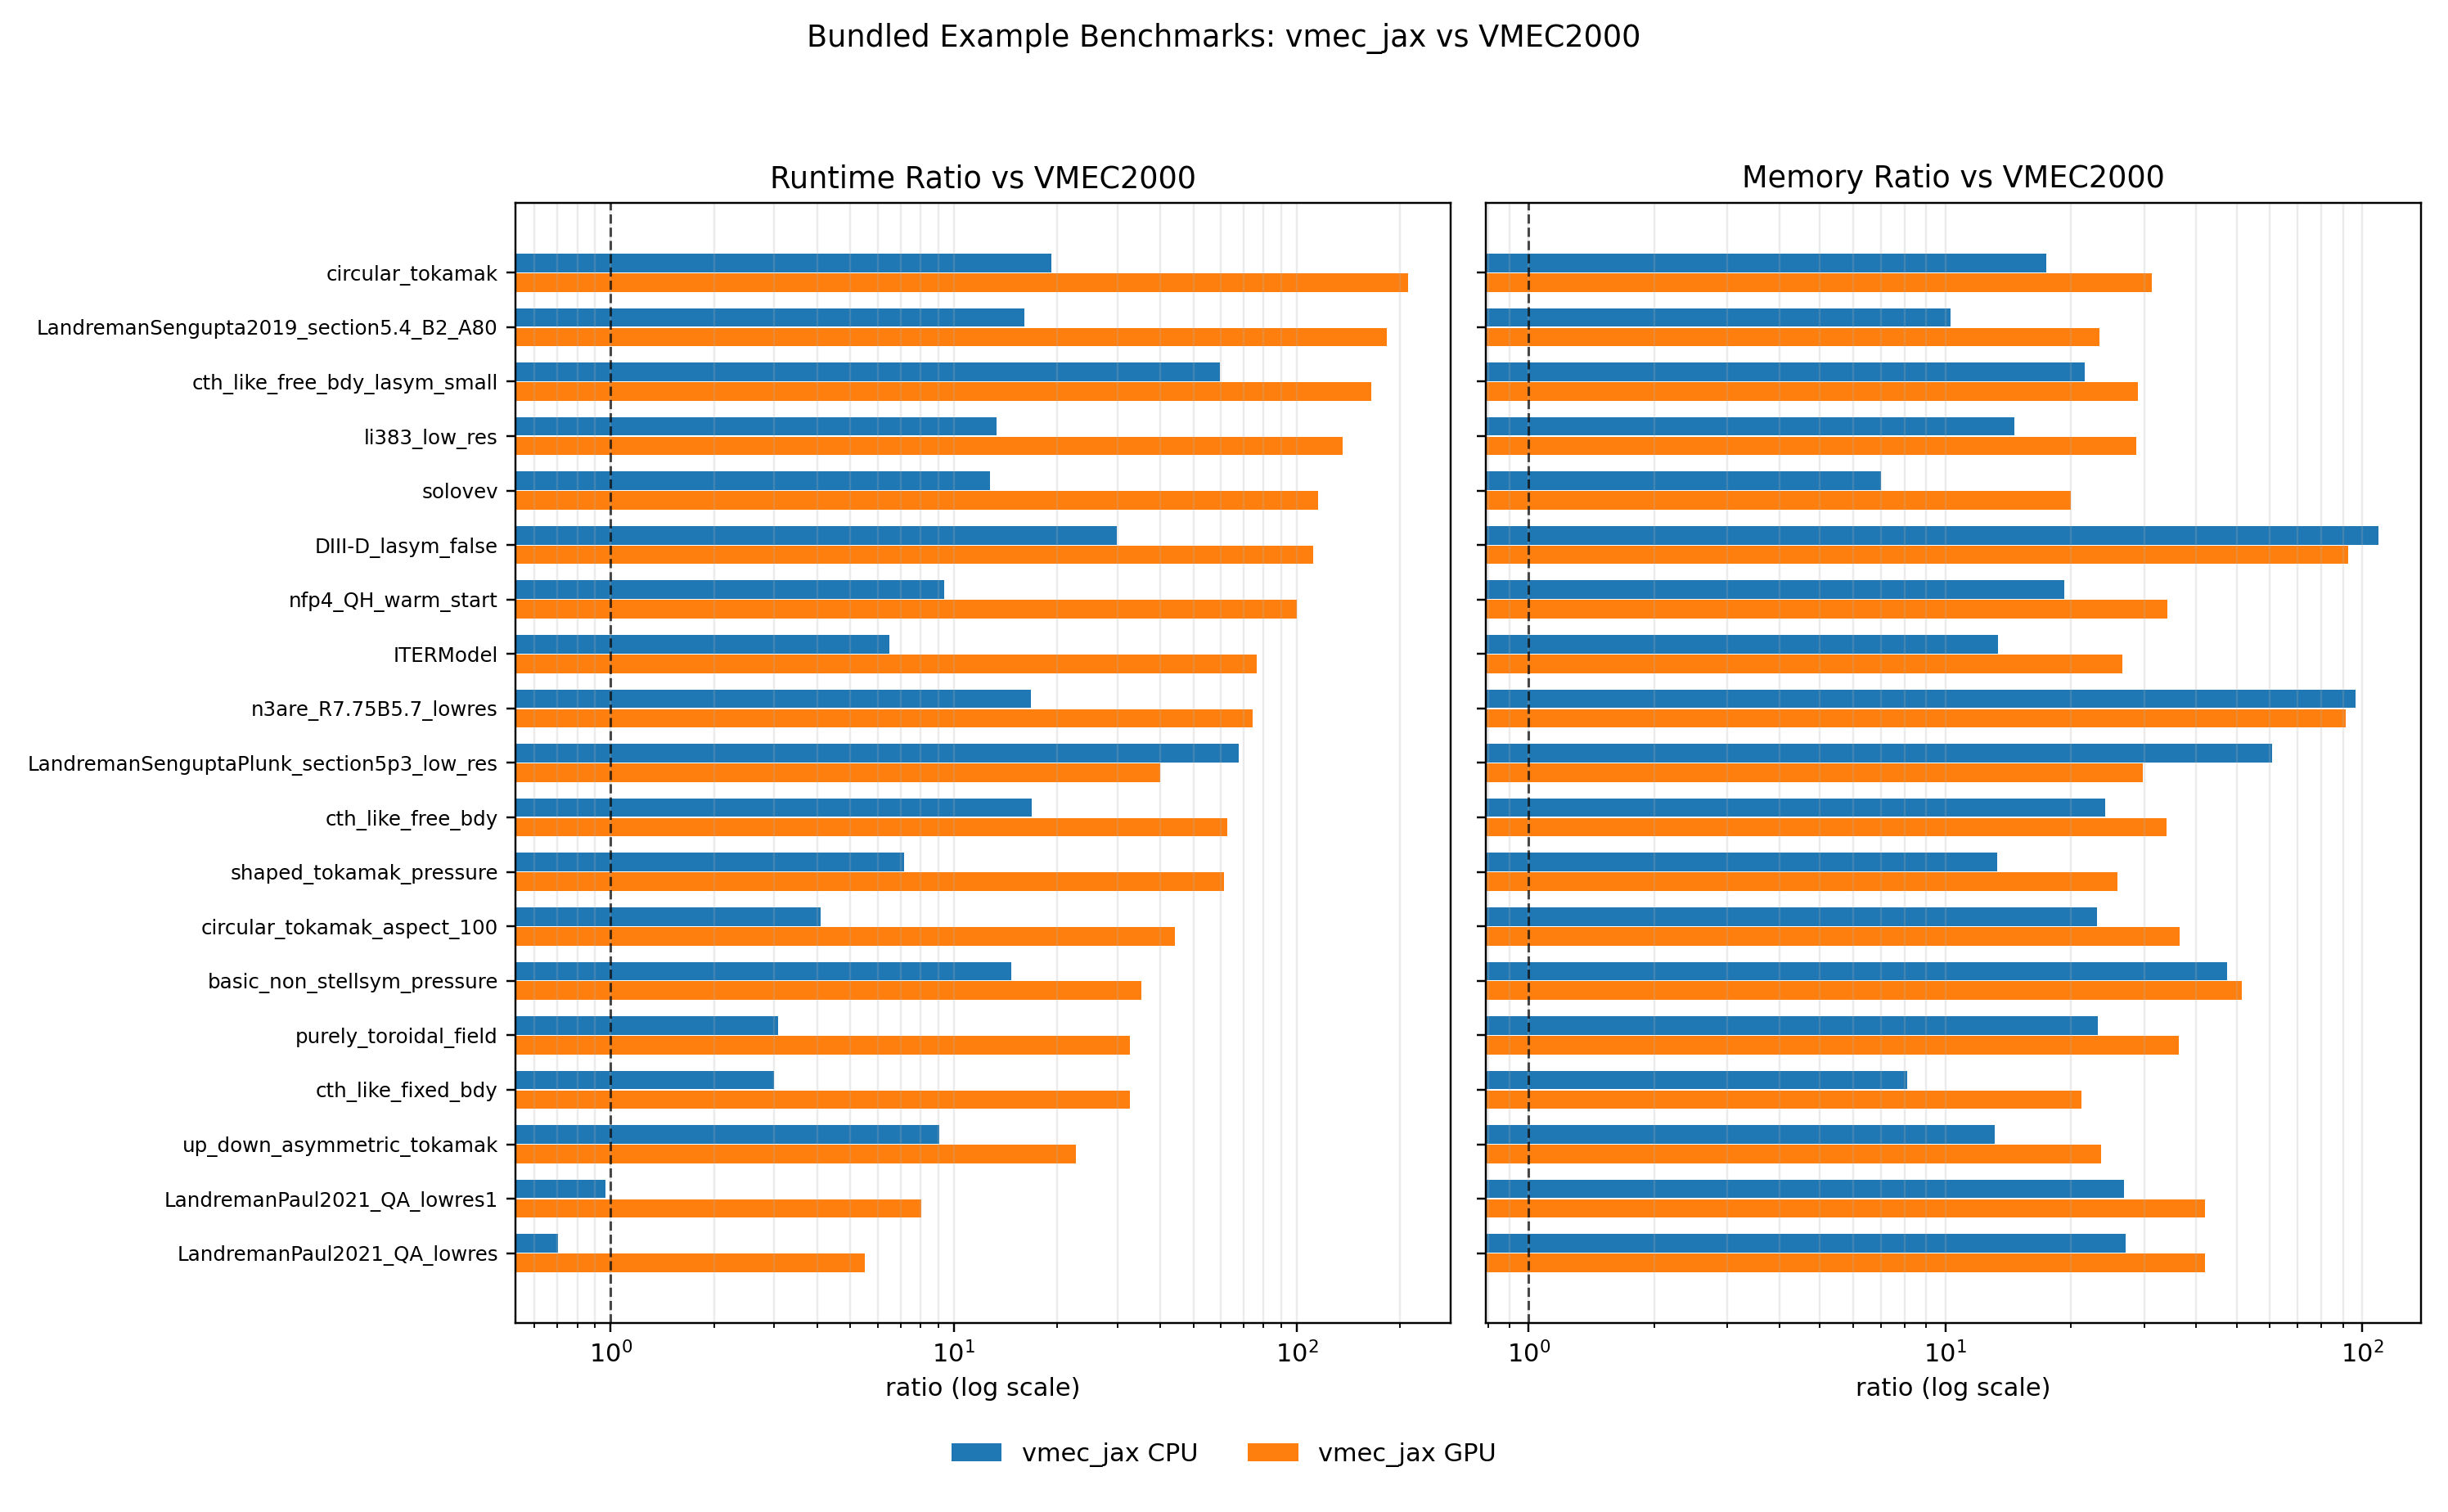
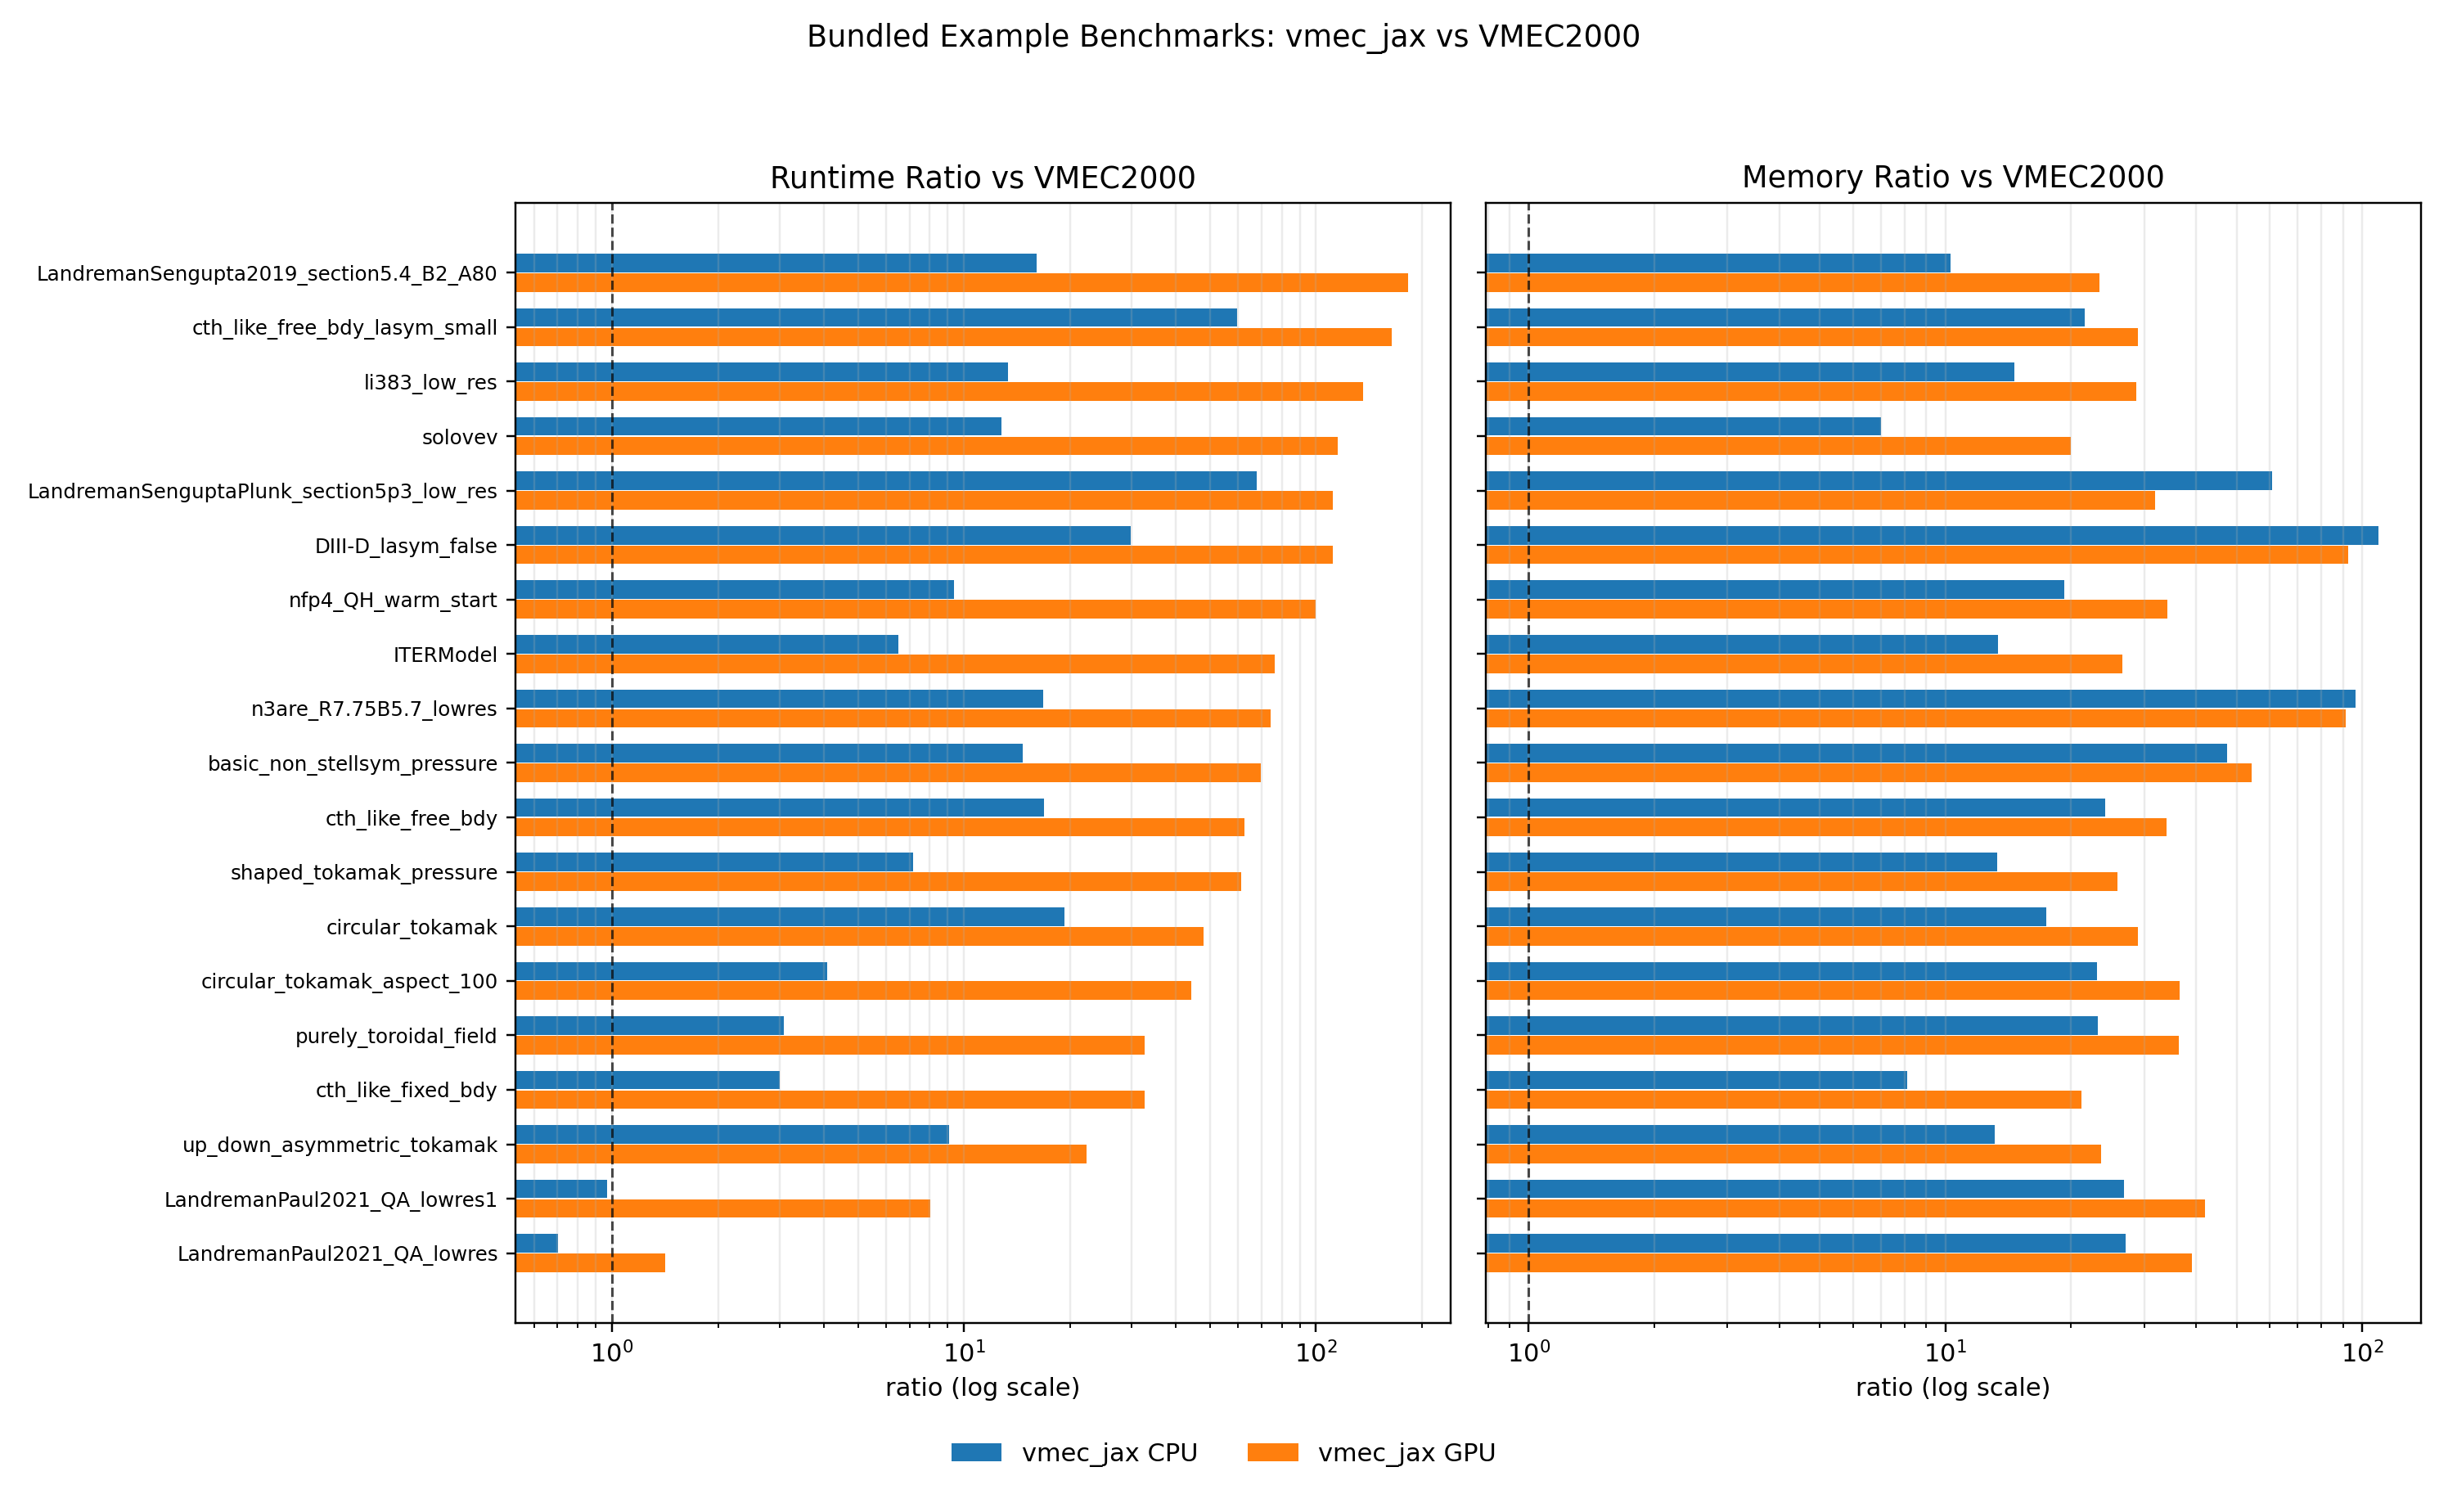
solve: reduce quiet GPU scan chunk overhead

diff --git a/tests/test_solve_scan_chunking.py b/tests/test_solve_scan_chunking.py
@@ -1,0 +1,63 @@
+from __future__ import annotations
+
+import vmec_jax.solve as solve_module
+
+
+def test_scan_chunk_settings_cpu_default(monkeypatch):
+    monkeypatch.setattr(solve_module, "_scan_backend_name", lambda: "cpu")
+    monkeypatch.delenv("VMEC_JAX_SCAN_CHUNK_SIZE", raising=False)
+
+    chunk_size, cap_to_remaining = solve_module._scan_chunk_settings(
+        max_iter_scan=783,
+        nstep_screen=200,
+        need_print=False,
+        lthreed=False,
+    )
+
+    assert chunk_size == 200
+    assert cap_to_remaining is False
+
+
+def test_scan_chunk_settings_accelerator_default(monkeypatch):
+    monkeypatch.setattr(solve_module, "_scan_backend_name", lambda: "gpu")
+    monkeypatch.delenv("VMEC_JAX_SCAN_CHUNK_SIZE", raising=False)
+
+    chunk_size, cap_to_remaining = solve_module._scan_chunk_settings(
+        max_iter_scan=783,
+        nstep_screen=200,
+        need_print=False,
+        lthreed=False,
+    )
+
+    assert chunk_size == 783
+    assert cap_to_remaining is True
+
+
+def test_scan_chunk_settings_accelerator_3d_default(monkeypatch):
+    monkeypatch.setattr(solve_module, "_scan_backend_name", lambda: "gpu")
+    monkeypatch.delenv("VMEC_JAX_SCAN_CHUNK_SIZE", raising=False)
+
+    chunk_size, cap_to_remaining = solve_module._scan_chunk_settings(
+        max_iter_scan=5000,
+        nstep_screen=200,
+        need_print=False,
+        lthreed=True,
+    )
+
+    assert chunk_size == 400
+    assert cap_to_remaining is True
+
+
+def test_scan_chunk_settings_respects_override(monkeypatch):
+    monkeypatch.setattr(solve_module, "_scan_backend_name", lambda: "gpu")
+    monkeypatch.setenv("VMEC_JAX_SCAN_CHUNK_SIZE", "1000")
+
+    chunk_size, cap_to_remaining = solve_module._scan_chunk_settings(
+        max_iter_scan=3,
+        nstep_screen=200,
+        need_print=False,
+        lthreed=True,
+    )
+
+    assert chunk_size == 1000
+    assert cap_to_remaining is True

diff --git a/vmec_jax/solve.py b/vmec_jax/solve.py
@@ -45,6 +45,40 @@ def _hash_array_bytes(a: Any) -> str:
     return h.hexdigest()
 
 
+def _scan_backend_name() -> str:
+    if not has_jax() or jax is None:
+        return "cpu"
+    try:
+        return str(jax.default_backend()).strip().lower() or "cpu"
+    except Exception:
+        return "cpu"
+
+
+def _scan_chunk_settings(
+    *,
+    max_iter_scan: int,
+    nstep_screen: int,
+    need_print: bool,
+    lthreed: bool,
+) -> tuple[int, bool]:
+    chunk_size_env = os.getenv("VMEC_JAX_SCAN_CHUNK_SIZE", "").strip()
+    backend = _scan_backend_name()
+    if chunk_size_env:
+        try:
+            chunk_size = max(1, int(chunk_size_env))
+        except Exception:
+            chunk_size = max(1, int(nstep_screen))
+    elif (backend != "cpu") and (not bool(need_print)):
+        # Quiet accelerator runs benefit from much larger chunks because the
+        # host chunk loop otherwise pays repeated device sync/launch overhead.
+        accel_chunk_target = 400 if bool(lthreed) else 1000
+        chunk_size = max(1, max(int(nstep_screen), min(int(max_iter_scan), int(accel_chunk_target))))
+    else:
+        chunk_size = max(1, int(nstep_screen))
+    cap_to_remaining = (backend != "cpu") and (not bool(need_print))
+    return chunk_size, cap_to_remaining
+
+
 @dataclass(frozen=True)
 class SolveLambdaResult:
     state: VMECState
@@ -7750,14 +7784,12 @@ def solve_fixed_boundary_residual_iter(
             fsq_min_global_j = jnp.asarray(jnp.inf, dtype=dtype)
             early_fallback = bool(scan_fallback_enabled) and (int(cfg.ns) > int(scan_fallback_iters))
             need_print = bool(scan_collect_print)
-            chunk_size_env = os.getenv("VMEC_JAX_SCAN_CHUNK_SIZE", "").strip()
-            if chunk_size_env:
-                try:
-                    chunk_size = max(1, int(chunk_size_env))
-                except Exception:
-                    chunk_size = int(nstep_screen)
-            else:
-                chunk_size = int(nstep_screen)
+            chunk_size, chunk_cap_remaining = _scan_chunk_settings(
+                max_iter_scan=int(max_iter_scan),
+                nstep_screen=int(nstep_screen),
+                need_print=bool(need_print),
+                lthreed=bool(cfg.lthreed),
+            )
             if preflight_iters > 0:
                 if iter_offset_preflight is not None:
                     carry = carry._replace(iter_offset=jnp.asarray(iter_offset_preflight, dtype=jnp.int32))
@@ -7781,8 +7813,12 @@ def solve_fixed_boundary_residual_iter(
                     carry = carry._replace(iter_offset=jnp.asarray(iter_offset0, dtype=jnp.int32))
             while start_idx < int(max_iter_scan):
                 # Fixed-length chunk to avoid retracing for varying tail sizes.
-                # Extra iterations are masked by the in-scan hold condition.
-                chunk_len = int(chunk_size)
+                # On quiet accelerator runs, cap the chunk to the remaining work
+                # so short probe windows do not pay hundreds of masked no-op steps.
+                remaining = int(max_iter_scan) - int(start_idx)
+                if remaining <= 0:
+                    break
+                chunk_len = min(int(chunk_size), int(remaining)) if chunk_cap_remaining else int(chunk_size)
                 it_seq = jnp.arange(start_idx, start_idx + int(chunk_len), dtype=jnp.int32)
                 runner = _get_scan_runner(int(chunk_len))
                 carry, hist_chunk = runner(carry, it_seq)

diff --git a/docs/performance.rst b/docs/performance.rst
@@ -70,6 +70,14 @@ Controls:
 - ``VMEC_JAX_DYNAMIC_SCAN_ITERS=<int>``: override the probe window
   (defaults to ``10`` on CPU, ``3`` on accelerators).
 
+For quiet accelerator scans, ``vmec-jax`` also increases the default scan chunk
+target and caps each chunk to the remaining iteration budget. This reduces
+host/device launch overhead without changing the in-scan hold semantics.
+
+Controls:
+
+- ``VMEC_JAX_SCAN_CHUNK_SIZE=<int>``: override the chunk target explicitly.
+
 Debug dump env vars are incompatible with scan mode.
 
 If you want an automatic parity probe when using scan, set::
@@ -248,20 +256,27 @@ Recent artifacts from this tool:
 
 Current snapshot highlights:
 
-- Fixed-boundary ``lasym=True`` improved materially after the automatic
-  performance-mode axis inference + accelerator-aware scan probe:
+- Fixed-boundary scan performance on the reference GPU host improved materially
+  after the accelerator-aware scan probe and quiet-scan chunking changes:
 
-  - ``input.up_down_asymmetric_tokamak`` now runs in about ``6.7s`` /
-    ``0.89 GiB`` on the reference CPU host versus VMEC2000 about ``0.74s``.
-  - ``input.basic_non_stellsym_pressure`` runs in about ``29.7s`` /
-    ``3.22 GiB`` on the reference CPU host versus VMEC2000 about ``2.02s``.
-  - ``input.LandremanSenguptaPlunk_section5p3_low_res`` remains a heavy
-    fallback case at about ``46.8s`` / ``4.07 GiB`` versus VMEC2000
-    about ``0.69s``.
-  - On the reference GPU host, the same selector change cut bundled cold-start
-    runtimes to about ``16.9s`` for ``input.up_down_asymmetric_tokamak``,
-    ``71.4s`` for ``input.basic_non_stellsym_pressure``, and ``27.5s`` for
-    ``input.LandremanSenguptaPlunk_section5p3_low_res``.
+  - ``input.circular_tokamak`` now runs in about ``13.8s`` / ``1.97 GiB``.
+  - ``input.LandremanPaul2021_QA_lowres`` now runs in about ``33.9s`` /
+    ``2.66 GiB``.
+  - ``input.up_down_asymmetric_tokamak`` now runs in about ``16.5s`` /
+    ``1.60 GiB``.
+  - ``input.basic_non_stellsym_pressure`` now runs in about ``141.1s`` /
+    ``3.68 GiB``.
+  - ``input.LandremanSenguptaPlunk_section5p3_low_res`` now runs in about
+    ``77.1s`` / ``2.13 GiB``.
+
+- Fixed-boundary ``lasym=True`` on the reference CPU host remains:
+
+  - ``input.up_down_asymmetric_tokamak`` about ``6.7s`` / ``0.89 GiB`` versus
+    VMEC2000 about ``0.74s``.
+  - ``input.basic_non_stellsym_pressure`` about ``29.7s`` / ``3.22 GiB``
+    versus VMEC2000 about ``2.02s``.
+  - ``input.LandremanSenguptaPlunk_section5p3_low_res`` about ``46.8s`` /
+    ``4.07 GiB`` versus VMEC2000 about ``0.69s``.
 
 - Bundled free-boundary cases remain the dominant default-path outliers:
 

diff --git a/plan.md b/plan.md
@@ -760,3 +760,15 @@ Legend:
     (`input.up_down_asymmetric_tokamak`), `71.4s`
     (`input.basic_non_stellsym_pressure`), and `27.5s`
     (`input.LandremanSenguptaPlunk_section5p3_low_res`) on the reference GPU host.
+- Reduced the quiet fixed-boundary GPU scan overhead further by using
+  backend-aware chunk targets and capping chunk lengths to the remaining work:
+  - axisymmetric quiet accelerator scans now default to larger chunks,
+  - 3D quiet accelerator scans now default to moderately larger chunks,
+  - short parity probes no longer burn through hundreds of masked no-op steps.
+- Updated cold-start GPU benchmark points after the chunking change:
+  - `input.circular_tokamak` about `13.8s` / `1.97 GiB`,
+  - `input.LandremanPaul2021_QA_lowres` about `33.9s` / `2.66 GiB`,
+  - `input.up_down_asymmetric_tokamak` about `16.5s` / `1.60 GiB`,
+  - `input.basic_non_stellsym_pressure` about `141.1s` / `3.68 GiB`,
+  - `input.LandremanSenguptaPlunk_section5p3_low_res` about `77.1s` / `2.13 GiB`
+    on the reference GPU host.

diff --git a/README.md b/README.md
@@ -95,6 +95,7 @@ python examples/optimization/implicit_target_iota_volume.py --case circular_toka
 
 - Default runs enable the scan-based fast loop (`performance_mode=True`) with a parity guard.
 - LASYM fixed-boundary stages now use a timed scan/non-scan probe on CPU and a short parity-only probe on accelerators, so the default GPU path keeps the scan fast path without paying the full non-scan timing cost.
+- Quiet accelerator scan runs now use backend-aware larger chunks, capped to the remaining iterations, to reduce host/device launch overhead without changing solver parity.
 - Use `--parity` or `performance_mode=False` to force the conservative parity path.
 - Details and profiling guidance live in `docs/performance.rst`.
 - Parity methodology and current status live in `docs/validation.rst`.
@@ -185,12 +186,12 @@ and a reference CUDA host (dual RTX A4000 GPUs). Exact results vary by machine.
 | --- | --- | --- | --- | ---: | ---: | ---: | ---: | ---: | ---: |
 | DIII-D_lasym_false | free | axisym | false | 14.37s | 0.07 GiB | 428.24s | 7.36 GiB | 1602.31s | 6.23 GiB |
 | ITERModel | fixed | axisym | false | 0.90s | 0.07 GiB | 5.83s | 0.91 GiB | 68.66s | 1.81 GiB |
-| LandremanPaul2021_QA_lowres | fixed | non-axisym | false | 23.89s | 0.07 GiB | 16.79s | 1.84 GiB | 131.89s | 2.85 GiB |
+| LandremanPaul2021_QA_lowres | fixed | non-axisym | false | 23.89s | 0.07 GiB | 16.79s | 1.84 GiB | 33.91s | 2.66 GiB |
 | LandremanPaul2021_QA_lowres1 | fixed | non-axisym | false | 15.37s | 0.07 GiB | 14.86s | 1.82 GiB | 123.45s | 2.84 GiB |
 | LandremanSengupta2019_section5.4_B2_A80 | fixed | axisym | false | 0.24s | 0.07 GiB | 3.90s | 0.70 GiB | 44.38s | 1.60 GiB |
-| LandremanSenguptaPlunk_section5p3_low_res | fixed | axisym | true | 0.69s | 0.07 GiB | 46.77s | 4.07 GiB | 27.52s | 1.99 GiB |
-| basic_non_stellsym_pressure | fixed | non-axisym | true | 2.02s | 0.07 GiB | 29.73s | 3.22 GiB | 71.37s | 3.48 GiB |
-| circular_tokamak | fixed | axisym | false | 0.29s | 0.07 GiB | 5.55s | 1.18 GiB | 60.72s | 2.13 GiB |
+| LandremanSenguptaPlunk_section5p3_low_res | fixed | axisym | true | 0.69s | 0.07 GiB | 46.77s | 4.07 GiB | 77.13s | 2.13 GiB |
+| basic_non_stellsym_pressure | fixed | non-axisym | true | 2.02s | 0.07 GiB | 29.73s | 3.22 GiB | 141.07s | 3.68 GiB |
+| circular_tokamak | fixed | axisym | false | 0.29s | 0.07 GiB | 5.55s | 1.18 GiB | 13.84s | 1.97 GiB |
 | circular_tokamak_aspect_100 | fixed | axisym | false | 2.36s | 0.07 GiB | 9.64s | 1.58 GiB | 104.44s | 2.49 GiB |
 | cth_like_fixed_bdy | fixed | axisym | false | 0.81s | 0.07 GiB | 2.43s | 0.54 GiB | 26.46s | 1.42 GiB |
 | cth_like_free_bdy | free | non-axisym | false | 2.48s | 0.07 GiB | 41.83s | 1.64 GiB | 155.79s | 2.30 GiB |
@@ -201,4 +202,4 @@ and a reference CUDA host (dual RTX A4000 GPUs). Exact results vary by machine.
 | purely_toroidal_field | fixed | axisym | false | 3.21s | 0.07 GiB | 9.87s | 1.59 GiB | 104.91s | 2.49 GiB |
 | shaped_tokamak_pressure | fixed | axisym | false | 0.79s | 0.07 GiB | 5.66s | 0.90 GiB | 48.58s | 1.76 GiB |
 | solovev | fixed | axisym | false | 0.16s | 0.07 GiB | 2.08s | 0.48 GiB | 18.80s | 1.38 GiB |
-| up_down_asymmetric_tokamak | fixed | axisym | true | 0.74s | 0.07 GiB | 6.72s | 0.89 GiB | 16.88s | 1.60 GiB |
+| up_down_asymmetric_tokamak | fixed | axisym | true | 0.74s | 0.07 GiB | 6.72s | 0.89 GiB | 16.54s | 1.60 GiB |